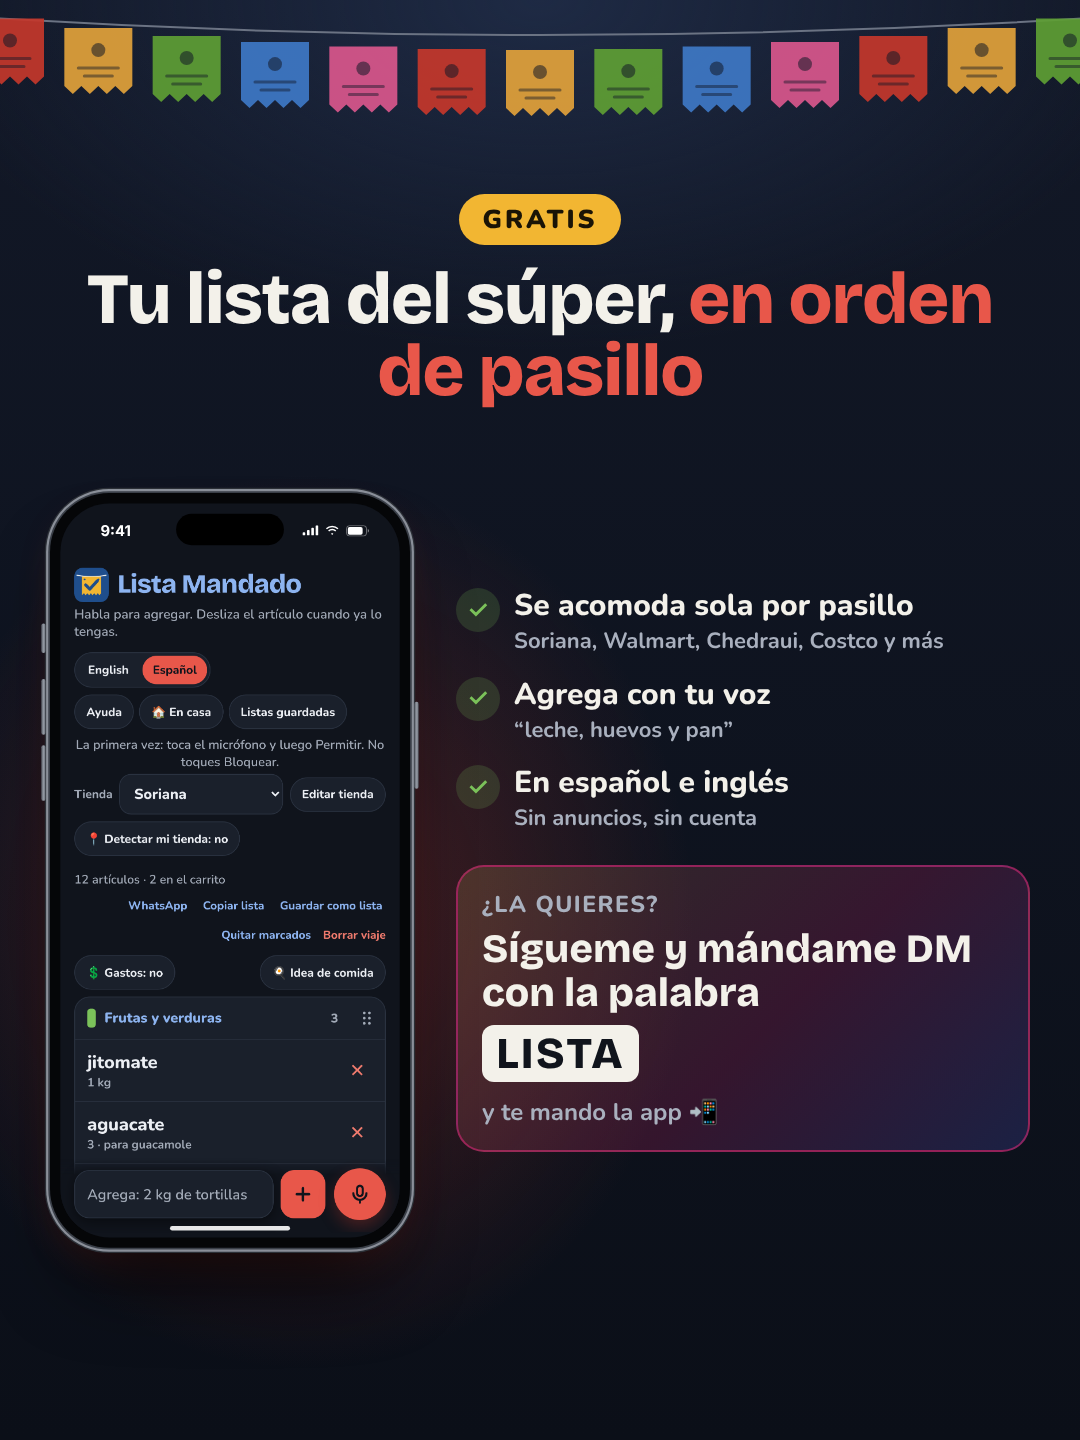
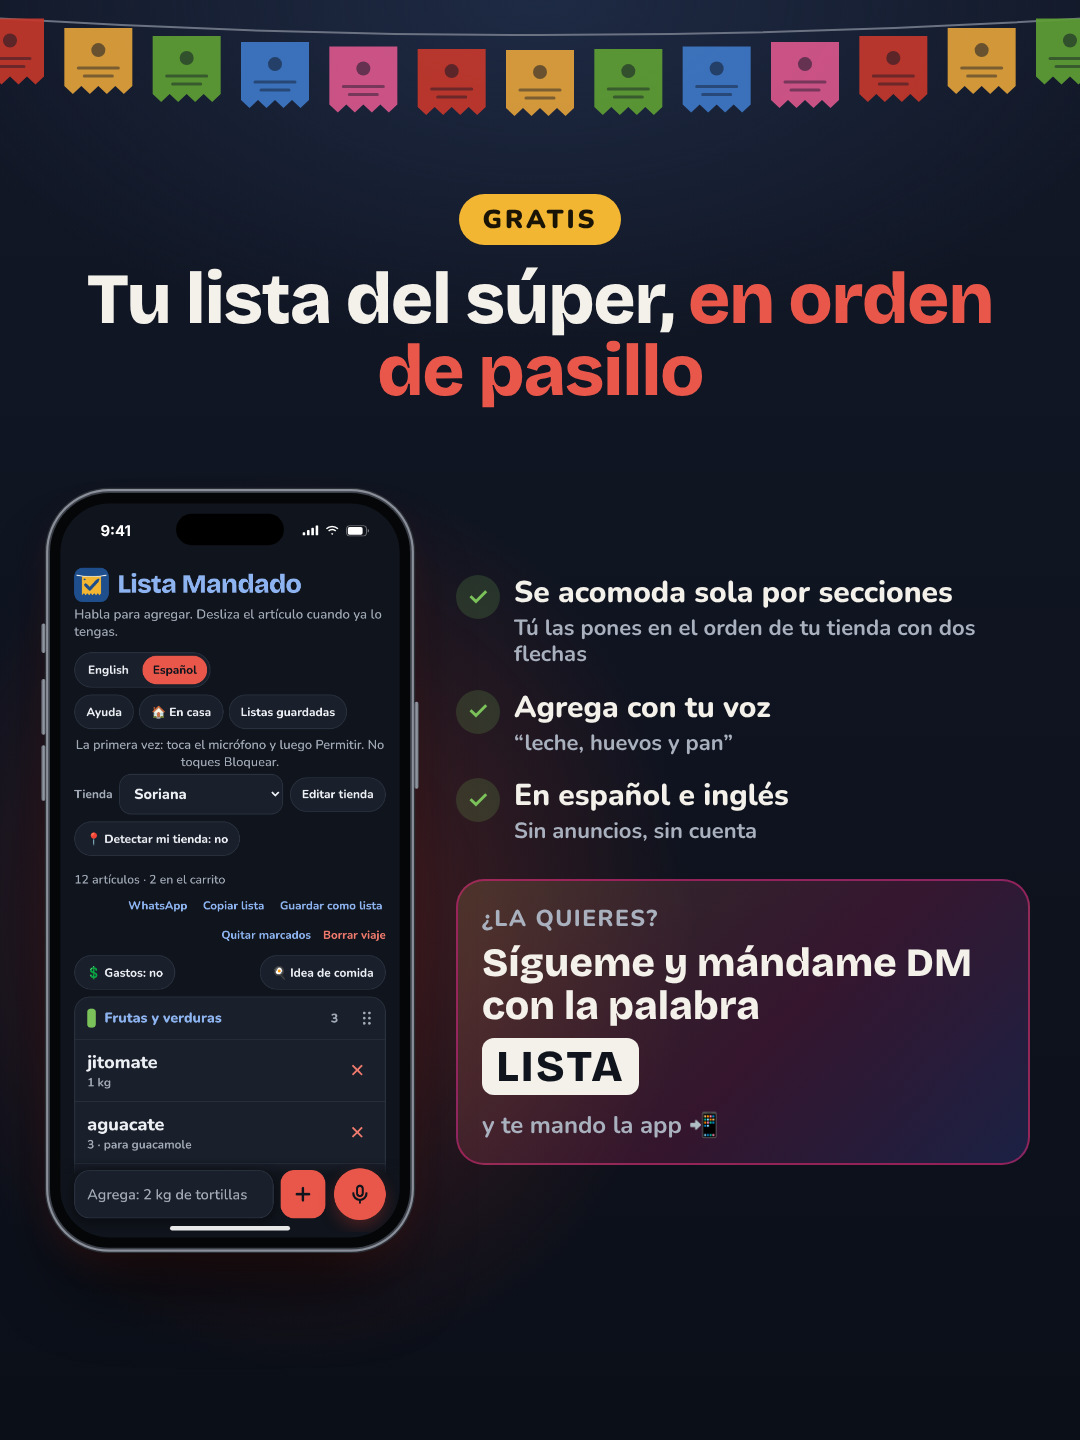
Help rewritten in plain words; giveaway post accurate about sorting; Story, saved replies
- Help: four numbered parts (make your list, put the sections in your store's order with the arrows,
  put the app on your phone, if the microphone doesn't work), written step by step for first-time
  phone users, bigger text; English and Spanish; every button named matches the screen
- Giveaway post and captions: 'sorts itself into sections, you set your store's order once with two arrows'
- Giveaway Story 1080x1920 (ES, EN), docs/instagram/saved-replies.md for Instagram DMs
- FUTURE_UPGRADES: Instagram auto-reply for LISTA/LIST/APP
- Cache version v25

Claude-Session: https://claude.ai/code/session_01HcMKBGTtoF7oDHWi6SQnJ4

Changed region(s): [[0.4278, 0.375, 0.9472, 0.8125]]

diff --git a/index.html b/index.html
@@ -144,10 +144,13 @@
     .item-text { flex:1; min-width:0; text-align:left; background:none; border:0; font:inherit; font-size:1.3rem; font-weight:800; line-height:1.25; color:var(--ink); overflow-wrap:anywhere; cursor:pointer; }
     .help-box { background:var(--card); color:var(--ink); border-radius:22px; padding:22px 18px; width:min(400px,100%); max-height:86vh; overflow:auto; text-align:left; }
     .help-box h2 { text-align:center; margin-bottom:10px; color:var(--head); }
-    .help-box h3 { font-size:.95rem; margin:14px 0 6px; }
-    .help-box p, .help-box li { color:var(--ink); font-size:.92rem; line-height:1.45; }
+    .help-box h3 { font-size:1.08rem; margin:20px 0 8px; color:var(--head); }
+    .help-box h4 { font-size:1rem; margin:14px 0 6px; }
+    .help-box .help-note { font-size:.98rem; font-weight:700; margin:0 0 8px; }
+    .help-box .help-tip { font-size:.95rem; background:var(--soft); border-radius:12px; padding:10px 12px; margin:6px 0 4px; }
+    .help-box p, .help-box li { color:var(--ink); font-size:1rem; line-height:1.5; }
     .help-box ol { padding-left:1.2em; }
-    .help-box li { margin-bottom:6px; }
+    .help-box li { margin-bottom:9px; padding-left:2px; }
     .help-box .muted { color:var(--muted); text-align:center; margin-bottom:12px; }
     .perm { background:var(--perm-bg); border:1px solid var(--perm-line); color:var(--perm-ink);
       border-radius:14px; padding:12px 14px; margin:8px 0 4px; text-align:left; font-size:.9rem; line-height:1.4; }
@@ -346,11 +349,20 @@
   </div>
   <div class="overlay hidden" id="helpOverlay">
     <div class="help-box">
-      <h2 id="helpTitle">Get it working</h2>
+      <h2 id="helpTitle">How to use Lista Mandado</h2>
       <p class="muted" id="helpIntro"></p>
-      <h3 id="helpAndTitle">Android</h3>
+      <h3 id="helpHowTitle">1. Make your list</h3>
+      <ol id="helpHow"></ol>
+      <h3 id="helpOrderTitle">2. Put the sections in your store's order</h3>
+      <p class="help-note" id="helpOrderIntro"></p>
+      <ol id="helpOrder"></ol>
+      <p class="help-tip" id="helpOrderTip"></p>
+      <h3 id="helpInstallTitle">3. Put the app on your phone</h3>
+      <p class="help-note" id="helpInstallIntro"></p>
+      <p class="help-tip" id="helpInstallNote"></p>
+      <h4 id="helpAndTitle">Android</h4>
       <ol id="helpAnd"></ol>
-      <h3 id="helpIosTitle">iPhone</h3>
+      <h4 id="helpIosTitle">iPhone</h4>
       <ol id="helpIos"></ol>
       <div class="move-box hidden" id="moveBox">
         <h3 id="moveTitle">Move my list to the app</h3>
@@ -359,9 +371,7 @@
         <p class="move-msg" id="moveMsg" aria-live="polite"></p>
         <textarea id="moveCode" class="field hidden" readonly rows="3" aria-label="List code"></textarea>
       </div>
-      <h3 id="helpHomeTitle">Add to Home Screen</h3>
-      <ol id="helpHome"></ol>
-      <h3 id="helpMoreTitle">If the mic says “not allowed”</h3>
+      <h3 id="helpMoreTitle">4. If the microphone doesn't work</h3>
       <ol id="helpMore"></ol>
       <h3 id="helpDisplayTitle">Display</h3>
       <div class="look-row">
@@ -464,16 +474,23 @@
         editHint:"This is the reusable list. Voice or type to add. Swipe to remove.",
         rename:"Rename", back:"Back to trip", itemsOf:n=>n===1?"1 saved item":n+" saved items",
         named:"Untitled list", chooseTitle:"Choose language", chooseSub:"This phone will remember your choice.",
-        help:"Help", helpTitle:"Get it working", helpClose:"Got it",
-        helpIntro:"Open this link in Chrome (Android) or Safari (iPhone). Don’t open it from Files, Gmail, or WhatsApp.",
-        helpAndTitle:"Android",
-        helpAnd:["Open this page in Chrome.","Tap the mic and tap Allow.","If it says not allowed: tap the lock next to the web address → Permissions → Microphone → Allow.","Or: Settings → Apps → Chrome → Permissions → Microphone → Allow."],
-        helpIosTitle:"iPhone",
-        helpIos:["Open this page in Safari.","Tap the mic and tap Allow.","If it says not allowed: tap aA (or the dots) in the address bar → Website Settings → Microphone → Allow.","Or: Settings → Safari → Microphone, and allow this site.","Install it first (Share → Add to Home Screen), then always open it from the home-screen icon. The installed app keeps its own list, separate from Safari, and iPhone won't erase it.","If the app's mic doesn't respond, tap the add box and use the mic on your keyboard. Say several items at once: “milk, eggs and bread”."],
-        helpMoreTitle:"If voice still fails",
-        helpMore:["Type the item instead. That still works.","Close the browser and open this same link again. The list stays on this phone."],
-        helpHomeTitle:"Add to Home Screen",
-        helpHome:["Android: Chrome menu (⋮) → Add to Home screen.","iPhone: Safari Share button → Add to Home Screen."],
+        help:"Help", helpTitle:"How to use Lista Mandado", helpClose:"Got it",
+        helpIntro:"Read this once. It only takes a few minutes. You can come back anytime by tapping Help.",
+        helpHowTitle:"1. Make your list",
+        helpHow:["Tap the white box at the bottom of the screen, where it says “Add”.", "Type what you need, for example: milk. Then tap the red + button.", "Or tap the red microphone button and say what you need, like: “milk, eggs and bread”.", "The app puts each thing in its section for you: fruits and vegetables, bread, meat, and so on.", "At the store, when you put something in your cart, slide it with your finger to the left or to the right. It gets a check mark.", "Made a mistake? Tap the ✕ next to the item to remove it."],
+        helpOrderTitle:"2. Put the sections in your store's order",
+        helpOrderIntro:"You only do this once for each store. After that, your list follows the store's aisles.",
+        helpOrder:["At the top of the screen, find the word “Store”. Tap the box next to it and choose your store.", "Tap the button “Edit store”, right next to it.", "A list of sections opens. Next to each section there are two arrows.", "Tap ↑ to move a section up. Tap ↓ to move it down.", "Put first the section you reach first when you walk into your store. For example, if the bread is by the door, move Bakery to the top.", "When the order looks right, tap the red “Save” button at the bottom.", "That's it! Every time you shop at that store, your list shows the sections in that order."],
+        helpOrderTip:"Your store isn't on the list? Tap the store box and choose “+ Add a store…”. Type its name, put the sections in order with the arrows, and tap Save.",
+        helpInstallTitle:"3. Put the app on your phone",
+        helpInstallIntro:"Do this once. Then Lista Mandado gets its own button (an icon) on your phone, like your other apps.",
+        helpInstallNote:"Did you get the link in WhatsApp, Instagram or a text message? First open it in Chrome (Android) or Safari (iPhone): tap the three dots ⋮ or the share button and choose “Open in Chrome” or “Open in Safari”.",
+        helpAndTitle:"If you have an Android phone (Samsung, Motorola, Xiaomi…)",
+        helpAnd:["Open the Lista Mandado link in Chrome. Chrome is the round icon with red, yellow, green and blue.", "Tap the three little dots ⋮ in the top right corner of the screen.", "Tap “Add to Home screen” or “Install app”.", "Tap “Install” (or “Add”) to say yes.", "Go to your phone's home screen. You will see the Lista Mandado icon. From now on, always open the app from that icon."],
+        helpIosTitle:"If you have an iPhone",
+        helpIos:["Open the Lista Mandado link in Safari. Safari is the blue icon that looks like a compass.", "Tap the Share button at the bottom of the screen. It looks like a square with an arrow pointing up.", "A list opens. Slide it up with your finger and tap “Add to Home Screen”.", "Tap “Add” in the top right corner.", "Go to your home screen and find the Lista Mandado icon. Always open the app from that icon. Your list is saved there."],
+        helpMoreTitle:"4. If the microphone doesn't work",
+        helpMore:["The first time you tap the microphone, the phone asks for permission. Tap “Allow”.", "Still not working? You can always type instead. It works just as well.", "Or tap the white box and use the small microphone on your keyboard.", "Android: open your phone's Settings → Apps → Chrome → Permissions → Microphone → Allow.", "iPhone: open Settings → Safari → Microphone → Allow."],
         copy:"Copy list", copied:"Copied. Paste it in a message.",
         undo:"Undo", undid:"Item removed",
         firstMic:"First time: tap the mic, then tap Allow on the popup. Don’t tap Block.",
@@ -551,16 +568,23 @@
         editHint:"Esta es la lista reutilizable. Habla o escribe para agregar. Desliza para quitar.",
         rename:"Renombrar", back:"Volver al viaje", itemsOf:n=>n===1?"1 artículo guardado":n+" artículos guardados",
         named:"Lista sin nombre", chooseTitle:"Elige idioma", chooseSub:"Este teléfono recordará tu elección.",
-        help:"Ayuda", helpTitle:"Para que funcione", helpClose:"Listo",
-        helpIntro:"Abre este enlace en Chrome (Android) o Safari (iPhone). No lo abras desde Archivos, Gmail o WhatsApp.",
-        helpAndTitle:"Android",
-        helpAnd:["Abre esta página en Chrome.","Toca el micrófono y toca Permitir.","Si dice not allowed: toca el candado junto a la dirección → Permisos → Micrófono → Permitir.","O: Ajustes → Aplicaciones → Chrome → Permisos → Micrófono → Permitir."],
-        helpIosTitle:"iPhone",
-        helpIos:["Abre esta página en Safari.","Toca el micrófono y toca Permitir.","Si dice not allowed: toca aA (o los puntos) en la barra → Ajustes del sitio → Micrófono → Permitir.","O: Ajustes → Safari → Micrófono, y permite este sitio.","Instálala primero (Compartir → Agregar a inicio) y ábrela siempre desde el ícono de la pantalla de inicio. La app instalada guarda su propia lista, aparte de Safari, y el iPhone no la borra.","Si el micrófono de la app no responde, toca la caja para agregar y usa el micrófono del teclado. Di varios artículos a la vez: “leche, huevos y pan”."],
-        helpMoreTitle:"Si la voz sigue fallando",
-        helpMore:["Escribe el artículo. Eso también funciona.","Cierra el navegador y abre el mismo enlace. La lista se queda en este teléfono."],
-        helpHomeTitle:"Agregar a inicio",
-        helpHome:["Android: menú de Chrome (⋮) → Agregar a pantalla de inicio.","iPhone: Safari → Compartir → Agregar a pantalla de inicio."],
+        help:"Ayuda", helpTitle:"Cómo usar Lista Mandado", helpClose:"Listo",
+        helpIntro:"Léelo una vez, solo toma unos minutos. Puedes volver cuando quieras tocando Ayuda.",
+        helpHowTitle:"1. Haz tu lista",
+        helpHow:["Toca la caja blanca de abajo, donde dice “Agrega”.", "Escribe lo que necesitas, por ejemplo: leche. Luego toca el botón rojo +.", "O toca el botón rojo del micrófono y di lo que necesitas, como: “leche, huevos y pan”.", "La app pone cada cosa en su sección: frutas y verduras, panadería, carnes, etcétera.", "En la tienda, cuando pongas algo en tu carrito, deslízalo con el dedo hacia la izquierda o la derecha. Se marca con una palomita.", "¿Te equivocaste? Toca la ✕ junto al artículo para quitarlo."],
+        helpOrderTitle:"2. Pon las secciones en el orden de tu tienda",
+        helpOrderIntro:"Solo lo haces una vez para cada tienda. Después tu lista sigue los pasillos de la tienda.",
+        helpOrder:["Arriba en la pantalla busca la palabra “Tienda”. Toca la caja de al lado y elige tu tienda.", "Toca el botón “Editar tienda”, justo al lado.", "Se abre una lista de secciones. Junto a cada sección hay dos flechas.", "Toca ↑ para subir una sección. Toca ↓ para bajarla.", "Pon primero la sección que encuentras primero al entrar a tu tienda. Por ejemplo, si el pan está junto a la entrada, sube Panadería hasta arriba.", "Cuando el orden esté bien, toca el botón rojo “Guardar” abajo.", "¡Listo! Cada vez que compres en esa tienda, tu lista mostrará las secciones en ese orden."],
+        helpOrderTip:"¿Tu tienda no aparece? Toca la caja de la tienda y elige “+ Agregar tienda…”. Escribe el nombre, ordena las secciones con las flechas y toca Guardar.",
+        helpInstallTitle:"3. Pon la app en tu teléfono",
+        helpInstallIntro:"Hazlo una vez. Así Lista Mandado tendrá su propio botón (un ícono) en tu teléfono, como tus otras apps.",
+        helpInstallNote:"¿Te llegó el enlace por WhatsApp, Instagram o mensaje? Primero ábrelo en Chrome (Android) o Safari (iPhone): toca los tres puntitos ⋮ o el botón de compartir y elige “Abrir en Chrome” o “Abrir en Safari”.",
+        helpAndTitle:"Si tienes un teléfono Android (Samsung, Motorola, Xiaomi…)",
+        helpAnd:["Abre el enlace de Lista Mandado en Chrome. Chrome es el ícono redondo de colores rojo, amarillo, verde y azul.", "Toca los tres puntitos ⋮ en la esquina de arriba a la derecha.", "Toca “Agregar a la pantalla principal” o “Instalar aplicación”.", "Toca “Instalar” (o “Agregar”) para decir que sí.", "Ve a la pantalla de inicio de tu teléfono. Ahí verás el ícono de Lista Mandado. De ahora en adelante, ábrela siempre desde ese ícono."],
+        helpIosTitle:"Si tienes un iPhone",
+        helpIos:["Abre el enlace de Lista Mandado en Safari. Safari es el ícono azul que parece una brújula.", "Toca el botón Compartir abajo en la pantalla. Parece un cuadrito con una flecha hacia arriba.", "Se abre una lista. Súbela con el dedo y toca “Agregar a inicio”.", "Toca “Agregar” en la esquina de arriba a la derecha.", "Ve a tu pantalla de inicio y busca el ícono de Lista Mandado. Ábrela siempre desde ese ícono. Ahí se guarda tu lista."],
+        helpMoreTitle:"4. Si el micrófono no funciona",
+        helpMore:["La primera vez que tocas el micrófono, el teléfono pide permiso. Toca “Permitir”.", "¿Sigue sin funcionar? Siempre puedes escribir. Funciona igual de bien.", "O toca la caja blanca y usa el micrófono pequeño de tu teclado.", "En Android: abre Ajustes del teléfono → Aplicaciones → Chrome → Permisos → Micrófono → Permitir.", "En iPhone: abre Ajustes → Safari → Micrófono → Permitir."],
         copy:"Copiar lista", copied:"Copiada. Pégala en un mensaje.",
         undo:"Deshacer", undid:"Artículo quitado",
         firstMic:"La primera vez: toca el micrófono y luego Permitir. No toques Bloquear.",
@@ -905,10 +929,10 @@
       $("helpBtn").textContent=c.help;
       $("helpTitle").textContent=c.helpTitle;
       $("helpIntro").textContent=c.helpIntro;
+      ["helpHowTitle","helpOrderTitle","helpOrderIntro","helpOrderTip","helpInstallTitle","helpInstallIntro","helpInstallNote"].forEach(id=>{ $(id).textContent=c[id]; });
       $("helpAndTitle").textContent=c.helpAndTitle;
       $("helpIosTitle").textContent=c.helpIosTitle;
       $("helpMoreTitle").textContent=c.helpMoreTitle;
-      $("helpHomeTitle").textContent=c.helpHomeTitle;
       $("helpClose").textContent=c.helpClose;
       $("moveTitle").textContent=c.moveTitle; $("moveText").textContent=c.moveText; $("moveBtn").textContent=c.moveBtn;
       $("moveBox").classList.toggle("hidden", !(isIOS && !isInstalled));
@@ -937,7 +961,7 @@
       $("spendTitle").textContent=c.spendTitle;
       $("ideaBtn").classList.toggle("hidden", !trip.some(i=>!i.checked));
       const fillOl = (id, items) => { const ol=$(id); ol.innerHTML=""; items.forEach(s=>{ const li=document.createElement("li"); li.textContent=s; ol.appendChild(li); }); };
-      fillOl("helpAnd", c.helpAnd); fillOl("helpIos", c.helpIos); fillOl("helpMore", c.helpMore); fillOl("helpHome", c.helpHome);
+      fillOl("helpHow", c.helpHow); fillOl("helpOrder", c.helpOrder); fillOl("helpAnd", c.helpAnd); fillOl("helpIos", c.helpIos); fillOl("helpMore", c.helpMore);
     }
     function showView(next){ view=next; ["shop","lists","edit","pantry"].forEach(v=>$(v+"View").classList.toggle("hidden", next!==v)); applyCopy(); render(); }
     function bindSwipe(row, onRemove){

diff --git a/sw.js b/sw.js
@@ -1,4 +1,4 @@
-const CACHE = "grocery-list-v24";
+const CACHE = "grocery-list-v25";
 const ASSETS = [
   "./",
   "./index.html",

diff --git a/docs/instagram/saved-replies.md b/docs/instagram/saved-replies.md
@@ -1,0 +1,43 @@
+# Instagram saved replies
+
+Instagram has its own quick replies for DMs. Set them up once, then answer a DM in two taps.
+
+**How to add one:** in the Instagram app go to **Settings → Business tools and controls → Saved replies → +**.
+(If you don't see it, open any DM, tap the **⋯** or the **+** next to the message box and look for **Saved replies**.)
+For each one, type the **shortcut** and paste the **message**. To use it: in a DM, type the shortcut and tap the reply that pops up.
+
+---
+
+## Shortcut: `lista` (Spanish, someone DMs LISTA)
+
+¡Gracias por seguirme! 🛒 Aquí está tu app gratis: https://luzcypher.github.io/grocery-list/
+
+Para ponerla en tu teléfono:
+• Android: abre el link en Chrome → toca los tres puntitos ⋮ → "Instalar aplicación".
+• iPhone: ábrelo en Safari → toca Compartir (cuadrito con flecha) → "Agregar a inicio".
+
+Adentro toca "Ayuda": ahí viene todo paso a paso. ¿Tienes un negocio? Cuéntame, también hago apps para negocios 😉
+
+## Shortcut: `list` (English, someone DMs LIST)
+
+Thanks for the follow! 🛒 Here's your free app: https://luzcypher.github.io/grocery-list/
+
+To put it on your phone:
+• Android: open the link in Chrome → tap the three dots ⋮ → "Install app".
+• iPhone: open it in Safari → tap Share (square with an arrow) → "Add to Home Screen".
+
+Inside, tap "Help": it walks you through everything. Have a business? Tell me about it, I build apps for businesses too 😉
+
+## Shortcut: `plan` (Spanish, someone comments APP or asks about an app)
+
+¡Hola! Gracias por escribir 🙌 Para armar la idea de tu app, contesta estas preguntas rápidas (2 minutos) y te llega un mini plan: https://luzcypher.github.io/grocery-list/apps/plan/
+Cuando lo tengas, mándamelo desde ahí y lo platicamos.
+
+## Shortcut: `planen` (English, someone comments APP or asks about an app)
+
+Hi! Thanks for reaching out 🙌 Answer a few quick questions (2 minutes) and you'll get a mini plan for your app: https://luzcypher.github.io/grocery-list/apps/plan/
+When you're done, send it to me from that page and we'll talk.
+
+---
+
+Links in DMs are tappable, so these are the best place to send people to the app and the planner.

diff --git a/docs/instagram/captions.md b/docs/instagram/captions.md
@@ -89,7 +89,7 @@ Open it from the link in my bio and add it to your home screen.
 
 ¿Haces el súper y das vueltas por toda la tienda? 🛒
 
-Hice Lista Mandado: escribes o dices lo que necesitas y tu lista se acomoda sola en el orden de los pasillos de tu tienda (Soriana, Walmart, Chedraui, Costco y más).
+Hice Lista Mandado: escribes o dices lo que necesitas y la app lo acomoda sola por secciones (frutas, panadería, carnes…). Tú pones las secciones en el orden de tu tienda una sola vez, con dos flechas, y listo: tu lista sigue los pasillos.
 
 🎁 Es gratis.
 👉 Sígueme y mándame DM con la palabra LISTA y te mando la app.
@@ -102,7 +102,7 @@ Se instala en tu teléfono en un minuto, sin cuenta y sin anuncios.
 
 Zigzagging across the store because your list is out of order? 🛒
 
-I built Lista Mandado: type or say what you need and your list sorts itself in the order of your store's aisles.
+I built Lista Mandado: type or say what you need and the app sorts it into sections (produce, bakery, meat…). Put the sections in your store's order once, with two arrows, and your list follows the aisles every time.
 
 🎁 It's free.
 👉 Follow me and DM me the word LIST and I'll send you the app.

diff --git a/FUTURE_UPGRADES.md b/FUTURE_UPGRADES.md
@@ -154,6 +154,14 @@ luzcypher.github.io/grocery-list/apps/plan/, for the Instagram bio, flyers and Q
 - After switching, regenerate the QR code and flyer, and update the quick replies (docs/quick-replies.md).
 - Keep the old github.io links working; GitHub redirects them to the new address.
 
+## Instagram auto-reply for "LISTA" / "LIST" and "APP"
+Anyone who DMs or comments a keyword gets the right link automatically, even at night.
+- LISTA / LIST → the free app link and install steps (same text as the saved replies in docs/instagram/saved-replies.md).
+- APP → the app planner link.
+- Needs: an Instagram Professional account connected to a Facebook Page, and either Meta's own automated
+  responses (Meta Business Suite → Inbox → Automations) or a tool such as ManyChat (free tier available).
+- Keep a human follow-up: the auto-reply sends the link, Frank answers questions.
+
 ## Built from the suggestions list (for reference)
 WhatsApp sharing, quantities and notes (also by voice: "dos kilos de tortillas"), spending tracker
 (price per checked item, trip and quincena totals, last price remembered), deal-day reminders per store,
